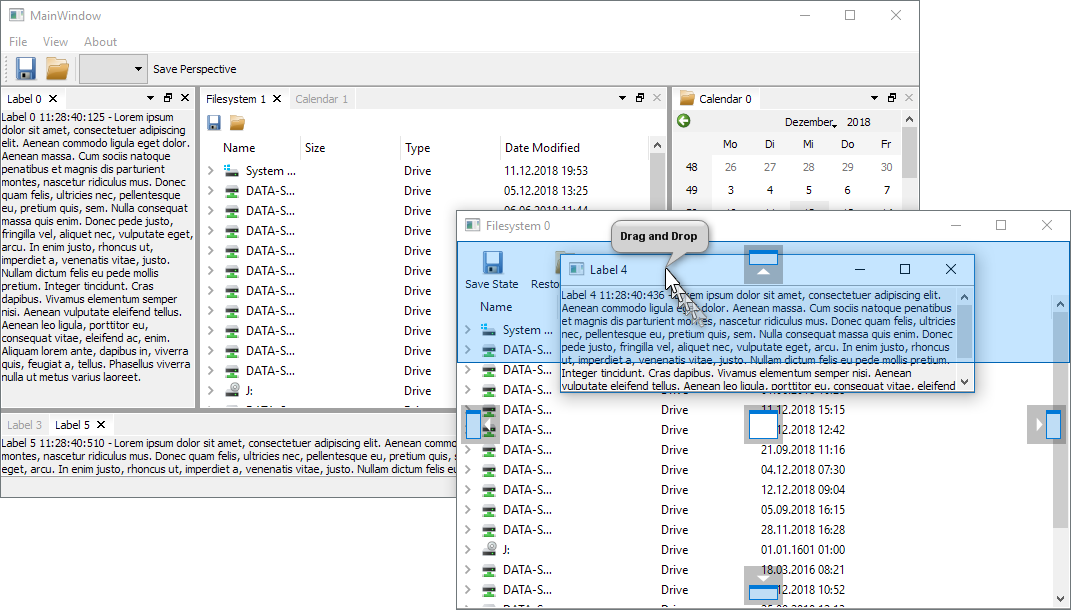
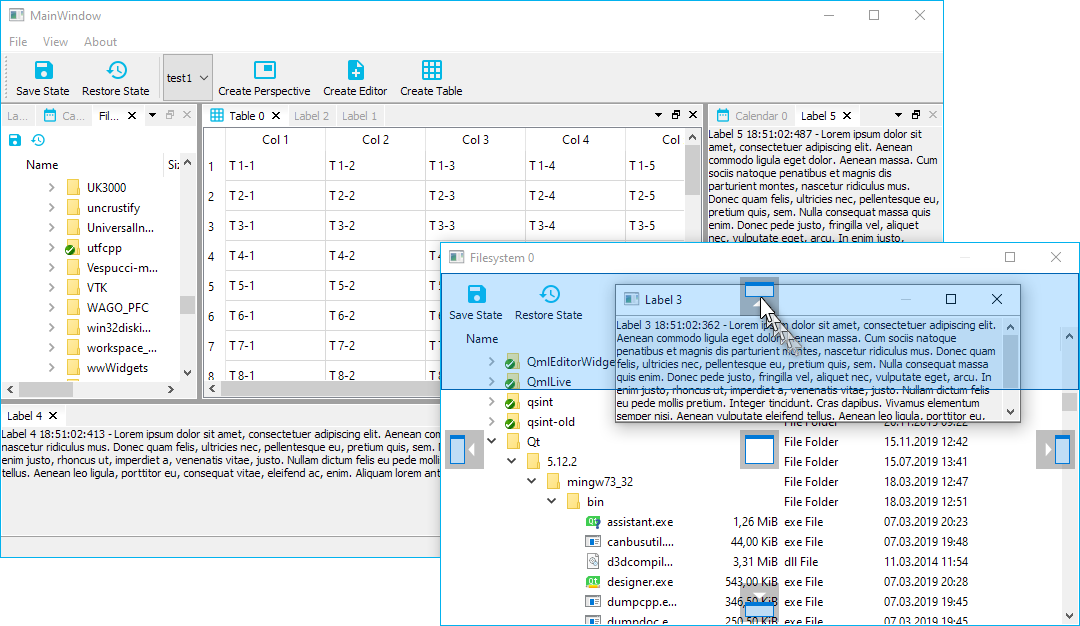
Improved source documentation and images

diff --git a/src/FloatingOverlay.h b/src/FloatingOverlay.h
@@ -21,7 +21,9 @@ struct FloatingOverlayPrivate;
 
 /**
  * A floating overlay is a temporary floating widget that is just used to
- * indicate the floating widget movement
+ * indicate the floating widget movement.
+ * This widget is used as a placeholder for drag operations for non-opaque
+ * docking
  */
 class CFloatingOverlay : public QWidget, public IFloatingWidget
 {
@@ -30,7 +32,14 @@ private:
 	friend class FloatingOverlayPrivate;
 
 protected:
+	/**
+	 * Updates the drop overlays
+	 */
 	virtual void moveEvent(QMoveEvent *event) override;
+
+	/**
+	 * Cares about painting the
+	 */
 	virtual void paintEvent(QPaintEvent *e) override;
 
 	/**
@@ -40,7 +49,16 @@ protected:
 
 public:
 	using Super = QWidget;
+
+	/**
+	 * Creates an instance for undocking the DockWidget in Content parameter
+	 */
 	CFloatingOverlay(CDockWidget* Content);
+
+	/**
+	 * Creates an instance for undocking the DockArea given in Content
+	 * parameters
+	 */
 	CFloatingOverlay(CDockAreaWidget* Content);
 
 	/**
@@ -48,6 +66,8 @@ public:
 	 */
 	~CFloatingOverlay();
 
+
+public: // implements IFloatingWidget -----------------------------------------
 	virtual void startFloating(const QPoint& DragStartMousePos, const QSize& Size,
         eDragState DragState, QWidget* MouseEventHandler) override;
 
@@ -58,7 +78,9 @@ public:
 	virtual void moveFloating() override;
 
 	/**
-	 * Finishes dragging
+	 * Finishes dragging.
+	 * Hides the dock overlays and executes the real undocking and docking
+	 * of the assigned Content widget
 	 */
 	virtual void finishDragging() override;
 };

diff --git a/src/FloatingDockContainer.h b/src/FloatingDockContainer.h
@@ -61,22 +61,33 @@ class CFloatingWidgetTitleBar;
 class CDockingStateReader;
 
 /**
- * Pure virtual interface for floating widgets
+ * Pure virtual interface for floating widgets.
+ * This interface is used for opaque and non-opaque undocking. If opaque
+ * undocking is used, the a real CFloatingDockContainer widget will be created
  */
 class IFloatingWidget
 {
 public:
+	/**
+	 * Starts floating.
+	 * This function should get called typically from a mouse press event
+	 * handler
+	 */
 	virtual void startFloating(const QPoint& DragStartMousePos, const QSize& Size,
         eDragState DragState, QWidget* MouseEventHandler) = 0;
 
 	/**
 	 * Moves the widget to a new position relative to the position given when
-	 * startFloating() was called
+	 * startFloating() was called.
+	 * This function should be called from a mouse mouve event handler to
+	 * move the floating widget on mouse move events.
 	 */
 	virtual void moveFloating() = 0;
 
 	/**
-	 * Tells the widget that to finish dragging if the mouse is released
+	 * Tells the widget that to finish dragging if the mouse is released.
+	 * This function should be called from a mouse release event handler
+	 * to finish the dragging
 	 */
 	virtual void finishDragging() = 0;
 };

diff --git a/demo/MainWindow.cpp b/demo/MainWindow.cpp
@@ -384,7 +384,7 @@ CMainWindow::CMainWindow(QWidget *parent) :
 
     // uncomment the follwing line if you want to use non opaque undocking and splitter
     // moevements
-    // CDockManager::setConfigFlags(CDockManager::DefaultNonOpaqueConfig);
+    CDockManager::setConfigFlags(CDockManager::DefaultNonOpaqueConfig);
 
 	// Now create the dock manager and its content
 	d->DockManager = new CDockManager(this);

diff --git a/src/FloatingOverlay.cpp b/src/FloatingOverlay.cpp
@@ -316,7 +316,7 @@ void CFloatingOverlay::paintEvent(QPaintEvent* event)
 		painter.drawPixmap(QPoint(0, 0), d->ContentPreviewPixmap);
 	}
 
-	// If we do not have a window frame then we paint a QRubberBadn like
+	// If we do not have a window frame then we paint a QRubberBand like
 	// frameless window
 	if (!CDockManager::configFlags().testFlag(CDockManager::DragPreviewHasWindowFrame))
 	{
